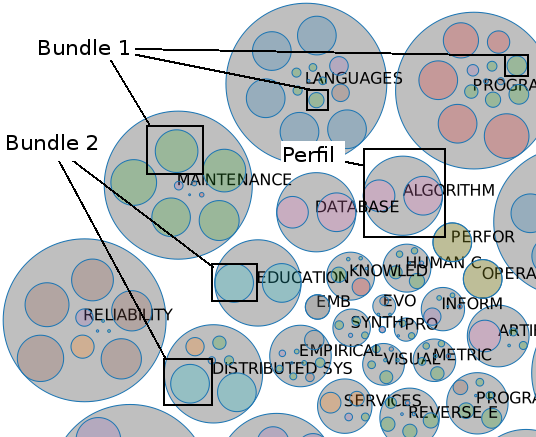
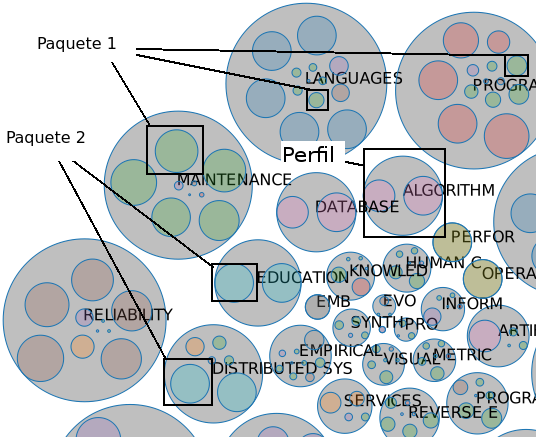
correccion informa

Changed region(s): [[0.0, 0.2975, 0.1791, 0.357], [0.0597, 0.0892, 0.2388, 0.1487]]

diff --git a/informe/experimentacion.tex b/informe/experimentacion.tex
@@ -59,28 +59,28 @@ Para clarificar mostramos un ejemplo de los perfiles de los elementos:
 Para la evaluación las consultas realizadas son:
 \begin{enumerate}
 	\item
-		Artículos con tópicos similares presentados en distintas conferencias.
+		Artículos con tópicos similares presentados en distintas conferencias. \label{busqueda:articulos}
 		\begin{itemize}
 			\item \textbf{Similitud}: Función que compara el perfil de cada artículo.
 			\item \textbf{Complementariedad}: Lugar dónde fue presentado.
 		\end{itemize}
 
 	\item
-	Autores que escribieron artículos con tópicos similares afiliados a universidades distintas.
+	Autores que escribieron artículos con tópicos similares afiliados a universidades distintas. \label{busqueda:autores}
 	\begin{itemize}
 		\item \textbf{Similitud}: Función que compara el perfil de los autores.
 		\item \textbf{Complementariedad}: Universidad de pertenencia del autor.
 	\end{itemize}
 
 	\item 
-	Universidades en donde se escribieron artículos de tópicos similares que se encuentran en distintas regiones. 
+	Universidades en donde se escribieron artículos de tópicos similares que se encuentran en distintas regiones. \label{busqueda:universidades}
 	\begin{itemize}
 		\item \textbf{Similitud}: Función que compara el perfil de las universidades.
 		\item \textbf{Complementariedad}: Región de la institución.
 	\end{itemize}
 \end {enumerate}
 
-Para obtener resultados de mayor calidad, se depuró de la base de datos aquellos artículos que no contengan la información del autor, de los tópicos (\textbf{topic profile}) o del lugar de publicación (\textbf{venue}). Quedando, luego de la depuración, $5500$ artículos.  
+Para obtener resultados de mayor calidad, se depuró de la base de datos aquellos artículos que no contengan la información del autor, de los tópicos (\textbf{topic profile}) o del lugar de publicación (\textbf{venue}). Quedando, luego de la depuración $5500$ artículos.  
 
 \paragraph{Función de similitud}
 La similitud se emplea para comparar dos objetos y determinar qué tan parecido son entre si. En este trabajo definimos la similitud entre los objetos de la base de datos de artículos mediante la \textbf{similitud coseno}. Esta es una medida de similitud entre dos vectores en un espacio vectorial provisto de un producto escalar que mide el coseno del ángulo comprendido entre ellos.
@@ -123,9 +123,9 @@ El propósito de la búsqueda es darle al usuario distintas opciones de circuito
 
 \section{Análisis de resutados}\label{sect:resultados}
 
-Para la experimentación se utilizó una máquina Desktop Intel(R) Core(TM) i5-4570T CPU @ 2.90GHz, 5.7G Ram, con DB: 5.5.46-MariaDB-1ubuntu0.14.04.2.
+En esta sección se analizan los resultados computacionales comparando la calidad de las soluciones obtenidos por los algoritmos discutidos en \autoref{chap:nuevas-propuestas}, sobre las bases de datos de \autoref{sect:busquedas}. Con el objetivo de evaluar las propuestas algorítmicas, se consideraron los siguientes métodos.
 
-El análisis que se realiza de los resultados obtenidos es comparando la calidad de los resultados de los algoritmos discutidos en \autoref{chap:nuevas-propuestas}, sobre las bases de datos de \autoref{sect:busquedas}. Con el objetivo de evaluar las propuestas algorítmicas, se consideraron los siguientes métodos:
+Para la experimentación se utilizó una máquina Desktop Intel(R) Core(TM) i5-4570T CPU @ 2.90GHz, 5.7G Ram, con DB: 5.5.46-MariaDB-1ubuntu0.14.04.2.
 
 \begin{itemize}
 \item{$alg1$} PAC(C-HAC / selección simple)
@@ -138,14 +138,18 @@ El análisis que se realiza de los resultados obtenidos es comparando la calidad
 \item{$alg8$} Construcción golosa + tabú
 \end{itemize}
 
-Tanto $alg1$ como $alg2$ corresponden a las metodologías propuestas en \cite{compositeRetrival}. Los demás algoritmos involucran las mejoras propuestas en este trabajo. En el caso de PAC es \texttt{Intra-Inter C-HAC} en la etapa de producción y la selección proporcional en la etapa de selección, además de la introducción de búsquedas tabú. En \texttt{PAC}, la búsqueda tabú \texttt{Inter-Paquete} se realiza al finalizar la etapa de producción y la \texttt{Intra-Paquete} luego de la selección. En la \texttt{Búsqueda Golosa} a la solución obtenida se realiza la búsqueda tabú \texttt{Intra-Paquete}. Cabe señalar que no se tienen en consideración BOBO-Ex y CAP ya que para el tamaño de la instancia los tiempos de ejecución de esos algoritmos resultaron prohibitivos. A partir de experimentación preliminar con BOBO para valores $c=1, 5$ y $10$, resultó $c=10$ la opción más competitiva. Para la búsquedas tabú se definió que la cantidad de iteraciones de permanencia de un elemento en la lista tabú sea el promedio de elementos que tiene un paquete en la solución inicial.
+Tanto $alg1$ como $alg2$ corresponden a las metodologías propuestas en \cite{compositeRetrival}. Los demás algoritmos involucran las mejoras propuestas en este trabajo. 
 
-Para realizar una comparación entre la calidad de las soluciones obtenidas por los diferentes algoritmos, se ha evaluado para los $\gamma \in \left\{0,1; 0,3; 0,4; 0,5; 0,6; 0,7; 0,8; 0,9\right\} $el porcentaje de deterioro de cada solución.
+En el caso de PAC es \texttt{Intra-Inter C-HAC} en la etapa de producción y la selección proporcional en la etapa de selección, además de la introducción de búsquedas tabú. 
 
-En el caso de la búsqueda de artículos, que es el escenario que contiene la mayor cantidad de objetos, los tiempos de ejecución  para los algoritmos C-HAC ($alg1$, $algo5$ y $alg6$) son del orden de los 5 minutos, mientras que para los algoritmos BOBO ($alg2$, $alg3$ y $alg4$) de 2 minutos y los golosos ($alg7$ y $alg8$) de los x minutos. Los incrementos de tiempo debido a la ejecución de las metaheruísticas de mejora son despreciables, están entre los 5 y 7 segundos. Por lo cual no se considera que el tiempo sea un factor que valga la pena analizar.
+En \texttt{PAC}, la búsqueda tabú \texttt{Inter-Paquete} se realiza al finalizar la etapa de producción y la \texttt{Intra-Paquete} luego de la selección. En la \texttt{Búsqueda Golosa} se intenta mejorar la solución obtenida mediante la búsqueda tabú \texttt{Intra-Paquete}. Cabe señalar que no se tienen en consideración BOBO-Ex y CAP ya que para el tamaño de la instancia los tiempos de ejecución de esos algoritmos resultaron prohibitivos. A partir de experimentación preliminar con BOBO para valores $c=1, 5$ y $10$, resultó $c=10$ la opción más competitiva. Para la búsquedas tabú se definió que la cantidad de iteraciones de permanencia de un elemento en la lista tabú sea el promedio de elementos que tiene un paquete en la solución inicial.
+
+Para realizar una comparación entre la calidad de las soluciones obtenidas por los diferentes algoritmos, se ha evaluado para los $\gamma \in \left\{0,1; 0,3; 0,4; 0,5; 0,6; 0,7; 0,8; 0,9\right\}$ el porcentaje de deterioro de cada solución respecto de la mejor solución obtenida por alguno de los ocho algoritmos.
+
+En el caso de la búsqueda de artículos, que es el escenario que contiene la mayor cantidad de objetos, los tiempos de ejecución  para los algoritmos C-HAC ($alg1$, $algo5$ y $alg6$) son del orden de los 5 minutos, mientras que para los algoritmos BOBO ($alg2$, $alg3$ y $alg4$) de 2 minutos y los golosos ($alg7$ y $alg8$) de los 6 minutos. Los incrementos de tiempo debido a la ejecución de las metaheruísticas de mejora son despreciables, están entre los 5 y 7 segundos. Por lo cual no se considera que el tiempo sea un factor que valga la pena analizar.
 
 \subsection{Base de datos de artículos}
-Para comprender el comportamiento de los resultados de las búsquedas se diseñaron dos tipos de gráficos que permiten visualizar la cohesión de los paquetes y la distancia entre ellos. De esta forma se podrá analizar la calidad del resultado obtenido más allá del valor de la función objetivo.
+Para comprender el comportamiento de los resultados de las búsquedas se diseñaron dos tipos de gráficos que permiten visualizar la cohesión de los paquetes y la dispersión entre ellos. De esta forma se podrá analizar la calidad del resultado obtenido más allá del valor de la función objetivo.
 
 Los gráficos del estilo de la figura \ref{res:img-explain-bars} permiten analizar la distribución de los tópicos de una solución a nivel de paquete y de la relación con otros. Las filas corresponden a los 10 paquetes obtenidos y las columnas a los 38 tópicos considerados. El tamaño del círculo representa la proporción del tópico en el perfil del artículo y el color hace referencia al paquete al cual artículo pertenece. Por lo tanto, dos artículos tendrán gran similitud cuando los patrones de sus círculos coincidan, tanto en tamaño como en distribución. Si para un paquete la distribución entre los tópicos y el tamaño de los círculos es similar entre sus artículos se puede deducir que este paquete es cohesivo (tiene buen valor intra). Por otro lado, si los patrones de los círculos de los dos artículos más similares entre distintos paquetes no coinciden, esto indica que el resultado es diverso.
 \begin{figure}[H]
@@ -155,7 +159,7 @@ Los gráficos del estilo de la figura \ref{res:img-explain-bars} permiten analiz
   \label{res:img-explain-bars}
 \end{figure}
 
-Los gráficos de tipo burbuja de la figura \ref{res:img-explain-bubbles} son útiles para concluir el nivel de acoplamiento entre los paquetes de una solución, observando la relación entre los tópicos y los paquetes. Cada burbuja representa un tópico que contiene círculos; cada circulo es un artículo donde el tamaño es la proporción del articulo con el tópico y el color el paquete al que pertenece. Entonces si las burbujas contienen círculos de más de un color se puede decir que ese resultado no es muy diverso, mientras que el color de los círculos de las burbujas sea más homogéneo el resultado es más diverso. En cuanto a la cohesión de los paquetes, es más cohesivo cuando el tamaño de cada circulo dentro de cada burbuja sea similar (para el mismo color) y la distribución de los círculos entre cada burbuja es equitativa.
+Los gráficos de tipo burbuja de la figura \ref{res:img-explain-bubbles} son útiles para concluir el nivel de acoplamiento entre los paquetes de una solución, observando la relación entre los tópicos y los paquetes. Cada burbuja representa un tópico; cada circulo dentro de esa burbuja es un artículo donde el tamaño es la proporción del articulo con el tópico y el color el paquete al que pertenece. Entonces si las burbujas contienen círculos de tamaños parecidos de más de un color se puede decir que ese resultado no es muy diverso, mientras que el color de los círculos de las burbujas sea más homogéneo el resultado es más diverso. En cuanto a la cohesión de los paquetes, es más cohesivo cuando el tamaño de cada circulo dentro de cada burbuja sea similar (para el mismo color) y la distribución de los círculos entre cada burbuja es equitativa.
 
 \begin{figure}[H]
   \centering
@@ -184,12 +188,12 @@ $\gamma$&$alg1$&$alg2$&$alg3$&$alg4$&$alg5$&$alg6$&$alg7$&$alg8$ \\ \hline
 0.8 & 0.00 & -57.86 & -57.86 & -16.11 & -0.56 & -0.30 & -18.10 & -17.60 \\
 0.9 & 0.00 & -58.92 & -58.92 & -15.91 & -0.48 & -0.35 & -20.47 & -17.61 \\ \hline 
 \end{tabular}
-\caption{Comparación de calidad de soluciones entre algoritmos} 
+\caption{Comparación de calidad de soluciones entre algoritmos para la \hyperref[busqueda:articulos]{búsqueda de artículos}} 
 \label{tabla:comp1}
 \end{center}
 \end{table}
 
-Al comparar las soluciones con mayor y menor función objetivo para los $\gamma = 0,1$ y $\gamma = 0,9$ se observa, en la figura \ref{res:comp1}, que para $\gamma = 0,1$ los tópicos (representados por burbujas) para la solución de \textit{alg 3} están presentes en varios paquetes (representados por círculos de colores) mientras que para el $alg6$ la mayoría de las burbujas contiene círculos de un solo color. De esta manera se visualiza que la solución de $alg6$ es más diversa. En $\gamma = 0,9$ el resultado obtenido con $alg3$ no se visualiza que cada burbuja contenga cinco circulos del mismo color, en cambio para la solución de $alg1$ si. Eso significa que los paquetes de la solución de $alg1$ son más cohesivos, ya que los cinco elementos de cada paquete tienen los mismos tópicos.
+Para comprender la semantica de las soluciones comparamos las soluciones con $\gamma = 0,1$ y $\gamma = 0,9$. En la figura \ref{res:comp1} se observa que para $\gamma = 0,1$ los tópicos (representados por burbujas) para la solución de \textit{alg 3} están presentes en varios paquetes (representados por círculos de colores). En cambio en el $alg6$ la mayoría de las burbujas contiene círculos de un solo color, De esta manera se visualiza que la solución de $alg6$ es más diversa. En $\gamma = 0,9$ el resultado obtenido con $alg3$ no se visualiza que cada burbuja contenga cinco circulos del mismo color, en cambio para la solución de $alg1$ si. Eso significa que los paquetes de la solución de $alg1$ son más cohesivos, ya que los cinco elementos de cada paquete tienen los mismos tópicos.
 
 \begin{figure}[H]
 	\centering
@@ -203,11 +207,11 @@ Al comparar las soluciones con mayor y menor función objetivo para los $\gamma 
 			\includegraphics[width=0.5\linewidth]{img/gamma-09-burbujas-alg-3.png}&
 			\includegraphics[width=0.5\linewidth]{img/gamma-09-burbujas-alg-1.png}\\
 	\end{tabular}
-	\caption{Comparación entre las soluciones con menor(izq) y mayor(der) función objetivos  para $\gamma\ 0,1\ y\ 0,9$}
+	\caption{Comparación entre las soluciones con menor(izq) y mayor(der) función objetivos  para $\gamma\ =\ 0,1\ y \gamma\ =\ 0,9$}
 	\label{res:comp1}
 \end{figure}
 
-La búsqueda tabú tiene su mayor impacto cuando es aplicada a la solución brindada por el algoritmo $alg3$ y en este contexto resulta una buena alternativa por su bajo costo computacional. En la Figura~\ref{res:bobo} se observa que para $\gamma=0.1$, la solución dada por el $alg3$ tiene artículos de distintos paquetes con patrones muy similares indicando un bajo valor inter-paquete. Por el contrario, luego de aplicar la búsqueda tabú los patrones de los artículos más similares entre distintos paquetes se volvieron más dispares, demostrando el aumento de la diversidad entre paquetes. Para $\gamma=0.9$, como puede observarse en la misma Figura~\ref{res:bobo}, en la solución brindada por el $alg4$ todos los paquetes tienen al menos un artículo cuyo patrón consiste en muchos círculos pequeños distribuidos en la mayoría de los tópicos en contraposición al resto de los artículos del mismo paquete con pocos círculos de gran tamaño, demostrando un bajo valor intra-paquete. En contraposición a los paquetes obtenidos luego de aplicar la búsqueda tabú, los cuáles son mucho más cohesivos. La última afirmación puede observarse en los círculos de los artículos dentro de un mismo paquete, quienes siguen patrones mucho más parecidos. Se puede afirmar que la búsqueda tabú es capaz de mejorar las características de la solución en función del parámetro $\gamma$.
+La búsqueda tabú tiene su mayor impacto cuando es aplicada a la solución brindada por el algoritmo $alg3$, como puede observarse en la tabla \autoref{tabla:comp1} y en este contexto resulta una buena alternativa por su bajo costo computacional. En la Figura~\ref{res:bobo} se observa que para $\gamma=0.1$, la solución dada por el $alg3$ tiene artículos de distintos paquetes con patrones muy similares indicando un bajo valor inter-paquete. Por el contrario, luego de aplicar la búsqueda tabú los patrones de los artículos más similares entre distintos paquetes se volvieron más dispares, demostrando el aumento de la diversidad entre paquetes. Para $\gamma=0.9$, como puede observarse en la misma Figura~\ref{res:bobo}, en la solución brindada por el $alg4$ todos los paquetes tienen al menos un artículo cuyo patrón consiste en muchos círculos pequeños distribuidos en la mayoría de los tópicos en contraposición al resto de los artículos del mismo paquete con pocos círculos de gran tamaño, demostrando un bajo valor intra-paquete. En contraposición a los paquetes obtenidos luego de aplicar la búsqueda tabú, los cuáles son mucho más cohesivos. La última afirmación puede observarse en los círculos de los artículos dentro de un mismo paquete, quienes siguen patrones mucho más parecidos. Se puede afirmar que la búsqueda tabú es capaz de mejorar las características de la solución en función del parámetro $\gamma$.
 
 Como se mencionó anteriormente, el algoritmo $C-HAC$ de \cite{compositeRetrival} ($alg1$) utiliza la función $Score$ para decidir el par de {\em clusters} a unir en la etapa de producción de paquetes y en la selección simple en la segunda fase. Estos dos criterios omiten la diversidad de los paquetes. De acuerdo a los resultados de la tabla \ref{tabla:comp1}, se pudo concluir que haber considerado la función Intra-Inter y la selección proporcional benefició la calidad de las soluciones cuando la misma es medida a partir de la función objetivo $w(S)$. Con el fin de evaluar que el $alg5$ es capaz de captar efectivamente la diversidad en la solución, se analiza las soluciones para $\gamma=0.5$. En este caso el $alg1$ obtuvo un valor de $intra=93,82$ y de $inter=35,49$, mientras que el $alg5$ logró valores de $intra=92,94$ y de $inter=35,96$. A pesar de que la solución de $alg1$ es levemente superior, la solución del $alg5$ aumentó el valor $inter$ el $1,32\%$ con un deterioro del valor $intra$ del $0,93\%$. Observando la Figura~\ref{res:comp1} se puede ver que la cohesión intra-paquete de ambas soluciones es equivalente. Sin embargo, la diversidad en la segunda solución es mayor, ya que los patrones entre los artículos más similares de distintos paquetes son más heterogéneos. 
 
@@ -226,9 +230,9 @@ Como se mencionó anteriormente, el algoritmo $C-HAC$ de \cite{compositeRetrival
 	\label{res:bobo}
 \end{figure}
 
-La decisión acerca del valor de $\gamma$ para priorizar un objetivo sobre el otro es realizada por el usuario. Una curva de frontera eficiente podría ayudar para examinar el balance (trade-off) entre los dos objetivos. La intención es que el usuario pueda analizar si una mejora significativa en el valor intra-paquete implica una degradación sustancial en el valor inter-paquetes y viceversa. Para ilustrar este análisis se presenta la Figura \ref{res:inter_intra}  que al comprar las soluciones obtenidas por los algoritmos $alg1$ y $alg5$ variando en pasos de $0,1$. Se observa que las soluciones provistas por $alg5$ no superan en todos los casos el inter en las soluciones obtenidas con $alg1$. En promedio el inter de las soluciones de $alg1$ superan a las de $alg5$ en un $0,65\%$. 
+La decisión acerca del valor de $\gamma$ para priorizar un objetivo sobre el otro es realizada por el usuario. Una curva de frontera eficiente podría ayudar para examinar el balance (trade-off) entre los dos objetivos. La intención es que el usuario pueda analizar si una mejora significativa en el valor intra-paquete implica una degradación sustancial en el valor inter-paquetes y viceversa. Para ilustrar este análisis en la Figura \ref{res:inter_intra} se comparan las soluciones obtenidas por los algoritmos $alg1$ y $alg5$ variando en pasos de $0,1$. Una primera evaluación muestra que la mayoría de las soluciones provistas por ambos algoritmos son no dominadas, es decir ninguna solución es mejor en ambos objetivos que cualquier otra solución.
 
-En la misma figura se compara las soluciones obtenidas por el algoritmo goloso $alg7$, que en promedio supera a las soluciones provistas por $alg2$ en $76\%$. De la comparación, se destaca que el valor de $\gamma$ impacta más en las soluciones de $alg2$.  
+En la misma figura se compara las soluciones obtenidas por los algoritmos $alg2$ y el goloso $alg7$. En promedio supera a las soluciones provistas por $alg2$ en $76\%$. De la comparación, se destaca que el valor de $\gamma$ impacta más en las soluciones de $alg2$.  
 
 \begin{figure}[H]
 	\centering
@@ -237,12 +241,12 @@ En la misma figura se compara las soluciones obtenidas por el algoritmo goloso $
 			\includegraphics[width=0.5\linewidth]{img/alg2_vs_alg7.png}\\
 			$alg1$ vs $alg5$ & $alg2$ vs $alg7$\\
 	\end{tabular}
-	\caption{}
+	\caption{Trade-off entre objetivos para los distinos valores de $\gamma$}
 	\label{res:inter_intra}
 \end{figure}
 
 \subsubsection{Búsqueda de autores}
-En la tabla \ref{tabla:comp2} se tiene los porcentajes de deterioro de cada solución para la búsqueda de autores que escribieron artículos de tópicos similares que están afiliados a distintas universidades. Se observa que en este caso, a diferencia de la búsqueda de artículos, el algoritmo tabú no halló una mejor solución.
+En la tabla \ref{tabla:comp2} se muestran los porcentajes de deterioro de cada solución con respecto a la mejor obtenida para la búsqueda de autores que escribieron artículos de tópicos similares que están afiliados a distintas universidades. Se observa que en este caso, a diferencia de la búsqueda de artículos, el algoritmo tabú no halló una mejor solución.
 
 En PAC no hubo una diferencia considerable entre las estrategias de producción $C-HAC$ e $Inter-Intra C-HAC$. Igualmente estos algoritmos jerárquicos siguen demostrando que obtienen una mejor solución que $BOBO$. En cuanto a la etapa de selección, cuando la producción de paquetes se realizó con $BOBO$ no se detectó una mejora con la estrategia con la selección proporcional propuesta en este trabajo. Al igual a lo ocurrido en la búsqueda de artículos, el algoritmo goloso generó para todos los gammas una solución mejor que $BOBO$. En cuanto a la búsqueda tabú, a partir de las soluciones iniciales del algoritmo $alg3$ encontró soluciones mejores promedediando una mejora al rededor del $30\%$. Así como también encontró mejores soluciones para $alg5$ y $alg7$
 
@@ -261,7 +265,7 @@ $\gamma$&$alg1$&$alg2$&$alg3$&$alg4$&$alg5$&$alg6$&$alg7$&$alg8$ \\ \hline
 0.8 & 0.00 & -38.19 & -38.70 & -1.44 & -0.08 & 0.00 & -2.72 & -1.20 \\
 0.9 & -0.03 & -39.15 & -39.38 & -1.21 & -0.10 & 0.00 & -3.35 & -1.72 \\ \hline 
 \end{tabular}
-\caption{Comparación de calidad de soluciones entre algoritmos} 
+\caption{Comparación de calidad de soluciones entre algoritmos para la \hyperref[busqueda:autores]{búsqueda de artículos}} 
 \label{tabla:comp2}
 \end{center}
 \end{table}
